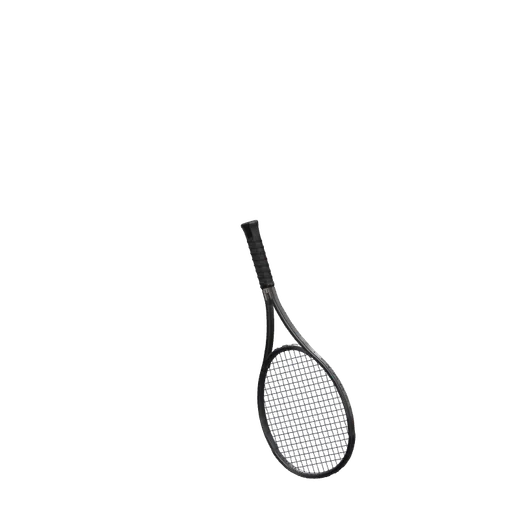
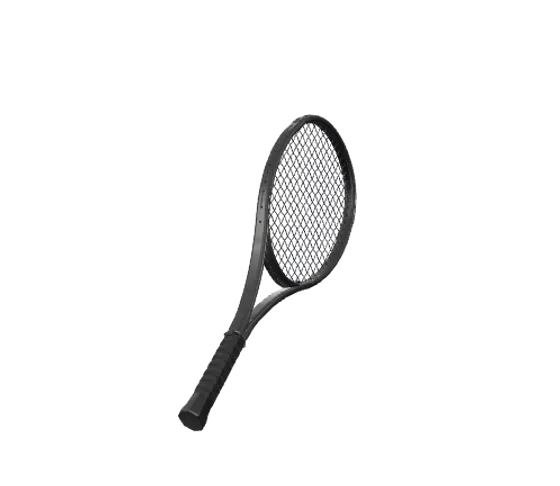
Schläger bei Spiel bei uns: Griff unten links, Ausholen und Vorhand auf die Kamera zu (24 Bilder), Ball fliegt auf den Betrachter zu

Changed region(s): [[0.3077, 0.216, 0.7077, 0.9259]]

diff --git a/js/main.js b/js/main.js
@@ -239,8 +239,9 @@
   })();
 
   /* ---------- "Spiel bei uns": Klick auf den Schläger schlägt eine Vorhand ---------- */
-  /* 22 vorgerenderte Bilder (nur der Schläger, kein Mensch) laufen als Schlagbewegung ab. Beim Treffpunkt (Bild 12)
-     fliegt der Ball weg, danach fällt ein neuer Ball ein. Die Bilder laden erst kurz vor dem Sichtbarwerden. */
+  /* 24 vorgerenderte Bilder (nur der Schläger, kein Mensch): Ausgangsstellung mit dem Griff unten links, Ausholen nach hinten,
+     Schlag nach vorn auf die Kamera zu (Treffpunkt: Bild 13), Auslaufen und zurück in die Ausgangsstellung.
+     Beim Treffer fliegt der Ball auf den Betrachter zu, danach erscheint ein neuer. Die Bilder laden erst kurz vor dem Sichtbarwerden. */
   (function swing() {
     var stage = doc.querySelector('.cta-stage');
     var btn = doc.querySelector('.swing-btn');
@@ -250,21 +251,30 @@
     var ball = stage.querySelector('.swing-ball');
     var ring = stage.querySelector('.swing-ring');
     if (!wrap || !cv || !ball || !cv.getContext) return;
-    if (reduce) { btn.hidden = true; return; }       /* ohne Bewegung bleibt das Ruhebild stehen */
-    var N = 22, CONTACT = 12, FRAME_MS = 30;
+    if (reduce) { btn.style.display = 'none'; return; }       /* ohne Bewegung bleibt das Ruhebild stehen */
+    var N = 24, CONTACT = 13, FRAME_MS = 38;
     var ctx = cv.getContext('2d');
-    var imgs = [], loaded = 0, ready = false, busy = false, wantPlay = false;
+    var imgs = [], settled = 0, ready = false, busy = false, wantPlay = false;
 
-    function draw(i) { ctx.clearRect(0, 0, cv.width, cv.height); ctx.drawImage(imgs[i], 0, 0, cv.width, cv.height); }
+    function draw(i) {
+      var im = imgs[i];
+      if (!im || !im.complete || !im.naturalWidth) return;
+      ctx.clearRect(0, 0, cv.width, cv.height);
+      ctx.drawImage(im, 0, 0, cv.width, cv.height);
+    }
+    function done() {
+      settled++;
+      if (settled < N) return;
+      ready = true; draw(0);
+      if (wantPlay) { wantPlay = false; play(); }
+    }
     function load() {
       if (imgs.length) return;
       for (var i = 0; i < N; i++) {
         var im = new Image();
         im.decoding = 'async';
-        im.onload = function () {
-          loaded++;
-          if (loaded === N) { ready = true; draw(0); if (wantPlay) { wantPlay = false; play(); } }
-        };
+        im.onload = done;
+        im.onerror = done;
         im.src = 'assets/hero/web/swing-' + (i < 10 ? '0' : '') + i + '.webp';
         imgs.push(im);
       }
@@ -275,27 +285,25 @@
     } else { load(); }
 
     function flyBall() {
+      /* Der Ball fliegt auf die Kamera zu: er wird schnell größer und verschwindet nach oben links aus dem Bild */
       ball.animate([
         { transform: 'translate(-50%,-50%) scale(1) rotate(0deg)', opacity: 1 },
-        { transform: 'translate(calc(-50% + 9vw),calc(-50% - 22%)) scale(.8) rotate(160deg)', opacity: 1, offset: 0.35 },
-        { transform: 'translate(calc(-50% + 22vw),calc(-50% - 12%)) scale(.3) rotate(420deg)', opacity: 0 }
-      ], { duration: 950, easing: 'cubic-bezier(.2,.7,.4,1)', fill: 'forwards' });
+        { transform: 'translate(-66%,-115%) scale(2.6) rotate(140deg)', opacity: 1, offset: 0.5 },
+        { transform: 'translate(-90%,-230%) scale(7) rotate(320deg)', opacity: 0 }
+      ], { duration: 780, easing: 'cubic-bezier(.5,0,.9,.6)', fill: 'forwards' });
       ring.animate([
         { transform: 'translate(-50%,-50%) scale(.2)', opacity: 0.7 },
-        { transform: 'translate(-50%,-50%) scale(1.8)', opacity: 0 }
+        { transform: 'translate(-50%,-50%) scale(2)', opacity: 0 }
       ], { duration: 520, easing: 'ease-out' });
     }
     function newBall() {
       ball.getAnimations().forEach(function (an) { an.cancel(); });
-      var done = ball.animate([
-        { transform: 'translate(-50%,calc(-50% - 230%)) scale(1)', opacity: 0 },
-        { transform: 'translate(-50%,-50%) scale(1)', opacity: 1, offset: 0.5 },
-        { transform: 'translate(-50%,calc(-50% - 70%)) scale(1)', opacity: 1, offset: 0.7 },
-        { transform: 'translate(-50%,-50%) scale(1)', opacity: 1, offset: 0.85 },
-        { transform: 'translate(-50%,calc(-50% - 14%)) scale(1)', opacity: 1, offset: 0.93 },
+      var fin = ball.animate([
+        { transform: 'translate(-50%,-50%) scale(.2)', opacity: 0 },
+        { transform: 'translate(-50%,-50%) scale(1.18)', opacity: 1, offset: 0.65 },
         { transform: 'translate(-50%,-50%) scale(1)', opacity: 1 }
-      ], { duration: 1100, easing: 'ease-in' });
-      done.onfinish = function () { busy = false; btn.removeAttribute('aria-busy'); };
+      ], { duration: 520, easing: 'ease-out' });
+      fin.onfinish = function () { busy = false; btn.removeAttribute('aria-busy'); };
     }
     function play() {
       if (busy) return;
@@ -309,7 +317,7 @@
         draw(f);
         if (!hit && f >= CONTACT) { hit = true; flyBall(); }
         if (f < N - 1) requestAnimationFrame(step);
-        else setTimeout(function () { draw(0); newBall(); }, 380);
+        else setTimeout(newBall, 250);
       })(performance.now());
     }
     wrap.addEventListener('click', play);

diff --git a/css/style.css b/css/style.css
@@ -386,11 +386,10 @@ a.sp:hover{filter:none;opacity:1;transform:translateY(-4px)}
 
 /* ---------- Spiel bei uns: Schläger schlägt auf Klick eine Vorhand ---------- */
 .cta-visual{position:relative}
-.swing{position:absolute;left:50%;top:50%;height:100%;aspect-ratio:1/1;transform:translate(-50%,-50%);animation:ctaFloat 7s ease-in-out infinite;cursor:pointer;z-index:2;-webkit-tap-highlight-color:transparent}
+.swing{position:absolute;left:50%;top:50%;width:106%;aspect-ratio:560/486;transform:translate(-50%,-50%);animation:ctaFloat 7s ease-in-out infinite;cursor:pointer;z-index:2;-webkit-tap-highlight-color:transparent}
 .swing-idle,.swing-canvas{position:absolute;left:0;top:0;width:100%;height:100%;max-width:none;filter:drop-shadow(0 18px 18px rgba(15,77,42,.28))}
-.swing-ball{position:absolute;left:81%;top:47%;width:9.5%;height:auto;max-width:none;transform:translate(-50%,-50%);filter:drop-shadow(0 8px 10px rgba(15,50,30,.3));z-index:3}
-.swing-ring{position:absolute;left:81%;top:47%;width:14%;aspect-ratio:1/1;border-radius:50%;border:3px solid rgba(15,77,42,.45);transform:translate(-50%,-50%) scale(0);opacity:0;pointer-events:none;z-index:3}
-@media (min-width:981px){.swing{height:125%}}
+.swing-ball{position:absolute;left:70.3%;top:74.9%;width:9.5%;height:auto;max-width:none;transform:translate(-50%,-50%);filter:drop-shadow(0 8px 10px rgba(15,50,30,.3));z-index:3}
+.swing-ring{position:absolute;left:70.3%;top:74.9%;width:16%;aspect-ratio:1/1;border-radius:50%;border:3px solid rgba(15,77,42,.45);transform:translate(-50%,-50%) scale(0);opacity:0;pointer-events:none;z-index:3}
 .swing-btn{position:absolute;left:50%;bottom:-4px;transform:translateX(-50%);z-index:4;min-height:44px;white-space:nowrap;padding-inline:26px;background:rgba(255,255,255,.85)}
 
 /* ---------- Galerie-Kacheln auf der Startseite: 4 Spalten x 5 Reihen, lückenlos und symmetrisch ---------- */

diff --git a/index.html b/index.html
@@ -354,13 +354,13 @@
       <div class="cta-stage" aria-hidden="true">
         <div class="cta-shadow"></div>
         <div class="swing">
-          <img class="swing-idle" src="assets/hero/web/swing-00.webp" alt="" width="520" height="520" loading="lazy" decoding="async">
-          <canvas class="swing-canvas" width="520" height="520"></canvas>
+          <img class="swing-idle" src="assets/hero/web/swing-00.webp" alt="" width="560" height="486" loading="lazy" decoding="async">
+          <canvas class="swing-canvas" width="560" height="486"></canvas>
           <span class="swing-ring"></span>
           <img class="swing-ball" src="assets/hero/web/ball.webp" alt="" width="260" height="260" loading="lazy" decoding="async">
         </div>
         <div class="b" style="--s:1.7;--i:0;left:2%;top:6%" data-r="-20"><div class="bp"><img src="assets/hero/web/ball.webp" alt="" width="260" height="260"><img class="s" src="assets/hero/web/ball-clay.webp" alt="" width="260" height="260"></div></div>
-        <div class="b" style="--s:1.25;--i:1;left:78%;top:14%" data-r="40"><div class="bp"><img src="assets/hero/web/ball.webp" alt="" width="260" height="260"><img class="s" src="assets/hero/web/ball-clay.webp" alt="" width="260" height="260"></div></div>
+        <div class="b" style="--s:1.25;--i:1;left:4%;top:72%" data-r="40"><div class="bp"><img src="assets/hero/web/ball.webp" alt="" width="260" height="260"><img class="s" src="assets/hero/web/ball-clay.webp" alt="" width="260" height="260"></div></div>
         <div class="b" style="--s:.95;--i:2;left:92%;top:82%" data-r="10"><div class="bp"><img src="assets/hero/web/ball.webp" alt="" width="260" height="260"><img class="s" src="assets/hero/web/ball-clay.webp" alt="" width="260" height="260"></div></div>
         <img class="cdust" src="assets/hero/web/dust.webp" alt="" width="420" height="420">
       </div>

diff --git a/README.md b/README.md
@@ -44,5 +44,5 @@ sonst landen Mails leichter im Spam. Nach dem Upload einmal eine Testnachricht s
 ## Bilder im Hero und bei "Spiel bei uns"
 
 - **Hero:** Luftbild der Anlage (`assets/img/anlage-am-itzenplitzer-weiher-luftbild.webp`), ein einfaches Foto ohne 3D. Es steht auch als Album "Unsere Anlage" in der Galerie (20 Drohnenfotos, in `js/gallery-data.js`).
-- **Spiel bei uns:** Der Schläger besteht aus 22 vorgerenderten Bildern (`assets/hero/web/swing-00.webp` bis `swing-21.webp`, Schlagbewegung ohne Person). Ein Klick auf den Schläger oder auf "Vorhand schlagen" spielt sie ab (`js/main.js`, Funktion `swing`), der Ball fliegt weg, ein neuer fällt ein. Bei "weniger Bewegung" bleibt nur das Ruhebild.
+- **Spiel bei uns:** Der Schläger besteht aus 24 vorgerenderten Bildern (`assets/hero/web/swing-00.webp` bis `swing-23.webp`, Vorhand auf die Kamera zu, ohne Person). Ein Klick auf den Schläger oder auf "Vorhand schlagen" spielt sie ab (`js/main.js`, Funktion `swing`), der Ball fliegt weg, ein neuer fällt ein. Bei "weniger Bewegung" bleibt nur das Ruhebild.
 - Die Bilder sind aus dem Code-Modell `src/racket-model.js` (Three.js) gerendert (800 x 800 Pixel, danach 520 Pixel als WebP). Wenn sich das Modell ändert, müssen sie neu gerendert werden. Auf der Seite läuft kein WebGL.
